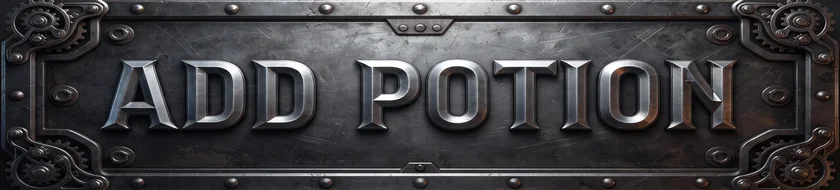
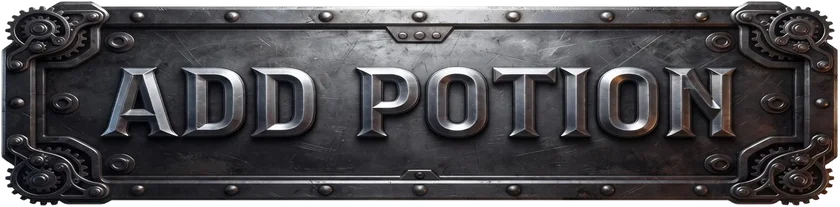
Recrop verdant and iron buttons and pair the size pills

diff --git a/src/shop.css b/src/shop.css
@@ -465,15 +465,21 @@
   left: auto;
   right: auto;
   top: auto;
-  width: 88%;
-  align-self: center;
-  gap: 0.55cqw;
+  display: grid;
+  grid-template-columns: 1fr 1fr;
+  width: 100%;
+  align-self: stretch;
+  gap: 1.1cqw;
+}
+.product-card.face .product-card-rows.one {
+  grid-template-columns: minmax(0, 78%);
+  justify-content: center;
 }
 .product-card.face .product-card-rows button {
   position: relative;
   display: block;
   width: 100%;
-  height: 8.6cqw;
+  height: auto;
   margin: 0;
   padding: 0;
   background: none;
@@ -486,9 +492,7 @@
 }
 .product-card.face .product-card-rows button img {
   width: 100%;
-  height: 100%;
-  object-fit: contain;
-  object-position: center;
+  height: auto;
   display: block;
   pointer-events: none;
 }
@@ -499,14 +503,17 @@
   align-items: center;
   justify-content: center;
   background: none;
-  padding: 0 10%;
+  padding: 0 7%;
   font-weight: 700;
-  font-size: 2.7cqw;
-  letter-spacing: 0.02em;
+  font-size: 2.35cqw;
+  letter-spacing: 0.01em;
   line-height: 1;
   white-space: nowrap;
   color: #f4efe4;
   text-shadow: 0 1px 2px rgba(0, 0, 0, 0.75);
+}
+.product-card.face .product-card-rows.one button span {
+  font-size: 3cqw;
 }
 .product-card.theme-emberforge.face .product-card-rows button span { color: #ffc27a; }
 .product-card.theme-verdant.face .product-card-rows button span { color: #e7fff4; }
@@ -519,11 +526,10 @@
   left: auto;
   right: auto;
   top: auto;
-  width: 78%;
+  width: 72%;
   height: auto;
-  max-height: 11cqw;
   align-self: center;
-  margin: 0.2cqw auto 0;
+  margin: 0.3cqw auto 0;
   padding: 0;
   border: 0;
   background: none;
@@ -531,8 +537,7 @@
 }
 .product-card.face .product-card-add img {
   width: 100%;
-  max-height: 11cqw;
-  object-fit: contain;
+  height: auto;
   display: block;
   pointer-events: none;
 }

diff --git a/src/shop.jsx b/src/shop.jsx
@@ -77,10 +77,10 @@ const CARD_INK = {
 
 const ADD_BUTTON = {
   emberforge: "/art/buttons/ember.webp?v=3",
-  verdant: "/art/buttons/verdant.webp?v=3",
+  verdant: "/art/buttons/verdant.webp?v=4",
   astral: "/art/buttons/astral.webp?v=3",
   rosefire: "/art/buttons/rose.webp?v=3",
-  ironwright: "/art/buttons/iron.webp?v=3",
+  ironwright: "/art/buttons/iron.webp?v=4",
 };
 
 const SIZE_PILL = {
